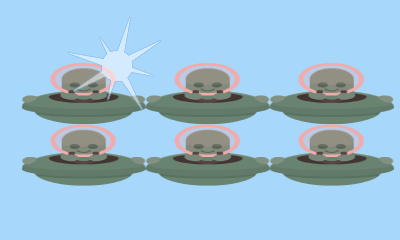
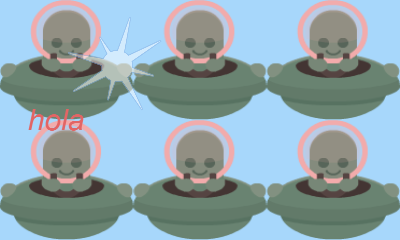
a

diff --git a/loop/engine/Render.js b/loop/engine/Render.js
@@ -8,6 +8,7 @@ class Render {
             backgroundColor: "0x" + String(gameProperties.backgroundColor).substr(1),
         });
         document.body.appendChild(app.view);
+        this.app = app;
 
         this.stage = new PIXI.Container();
         this.stage.position = { x: gameProperties.displayWidth / 2.0, y: gameProperties.displayHeight / 2.0 };
@@ -17,7 +18,6 @@ class Render {
 
         this.sprite = [];
         cast.forEach((actor, i) => {
-
             var existsImage = Boolean(player.file.loader.resources[actor.image]);
             var texture = (existsImage) ? player.file.loader.resources[actor.image].texture : PIXI.Texture.WHITE;
             texture.rotate = 8;
@@ -42,6 +42,28 @@ class Render {
             this.sprite[i].scroll = { x: actor.scrollX, y: actor.scrollY };
 
             this.stage.addChild(this.sprite[i]);
+            // Text properties
+            var w = Math.abs(this.sprite[i].width * this.sprite[i].scale.x);
+            const style = new PIXI.TextStyle({
+                fontFamily: actor.font,
+                fill: actor.fill,
+                fontSize: actor.size,
+                fontStyle: actor.style,
+                align: actor.align.toLowerCase(),
+                wordWrap: true,
+                wordWrapWidth: w,
+                padding: w
+            });
+            const text = new PIXI.Text(actor.text, style);
+            var pivot = { x: 0, y: 0 };
+            switch (actor.align) {
+                case "Left": pivot = { x: -w / 2, y: text.height / 2 }; break;
+                case "Right": pivot = { x: w / 2 - text.width, y: text.height / 2 }; break;
+                case "Center": pivot = { x: -text.width / 2, y: text.height / 2 }; break;
+            }
+            text.position = { x: pivot.x + actor.offsetX, y: pivot.y + actor.offsetY };
+            text.scale.y = -1;
+            this.stage.addChild(text);
         })
     }
 
@@ -49,7 +71,7 @@ class Render {
         this.sprite.forEach(sprite => {
             sprite.previousX = sprite.x;
             sprite.previousY = sprite.y;
-            if (sprite instanceof PIXI.TilingSprite) {
+            if (Boolean((sprite.scroll.x != 0) || (sprite.scroll.y != 0))) {
                 sprite.previousTilePositionX = sprite.tilePosition.x;
                 sprite.previousTilePositionY = sprite.tilePosition.y;
                 sprite.tilePosition.x += sprite.scroll.x * deltaTime;
@@ -60,13 +82,14 @@ class Render {
 
     draw(lagOffset) {
         this.sprite.forEach(sprite => {
-            sprite.x = (sprite.x - sprite.previousX) * lagOffset + sprite.previousX;
-            sprite.y = (sprite.y - sprite.previousY) * lagOffset + sprite.previousY;
+            sprite.x = sprite.x * lagOffset + sprite.previousX * (1 - lagOffset);
+            sprite.y = sprite.y * lagOffset + sprite.previousY * (1 - lagOffset);
             if (sprite instanceof PIXI.TilingSprite) {
-               sprite.tilePosition.x = (sprite.tilePosition.x - sprite.previousTilePositionX) * lagOffset + sprite.tilePosition.x;
-               sprite.tilePosition.y = (sprite.tilePosition.y - sprite.previousTilePositionY) * lagOffset + sprite.tilePosition.y;
+                sprite.tilePosition.x = sprite.tilePosition.x * lagOffset + sprite.tilePosition.x * (1 - lagOffset);
+                sprite.tilePosition.y = sprite.tilePosition.y * lagOffset + sprite.tilePosition.y * (1 - lagOffset);
             }
         });
+      //  this.app.renderer.render(this.stage);
     }
 
     // setActorRender(actor, data) {
